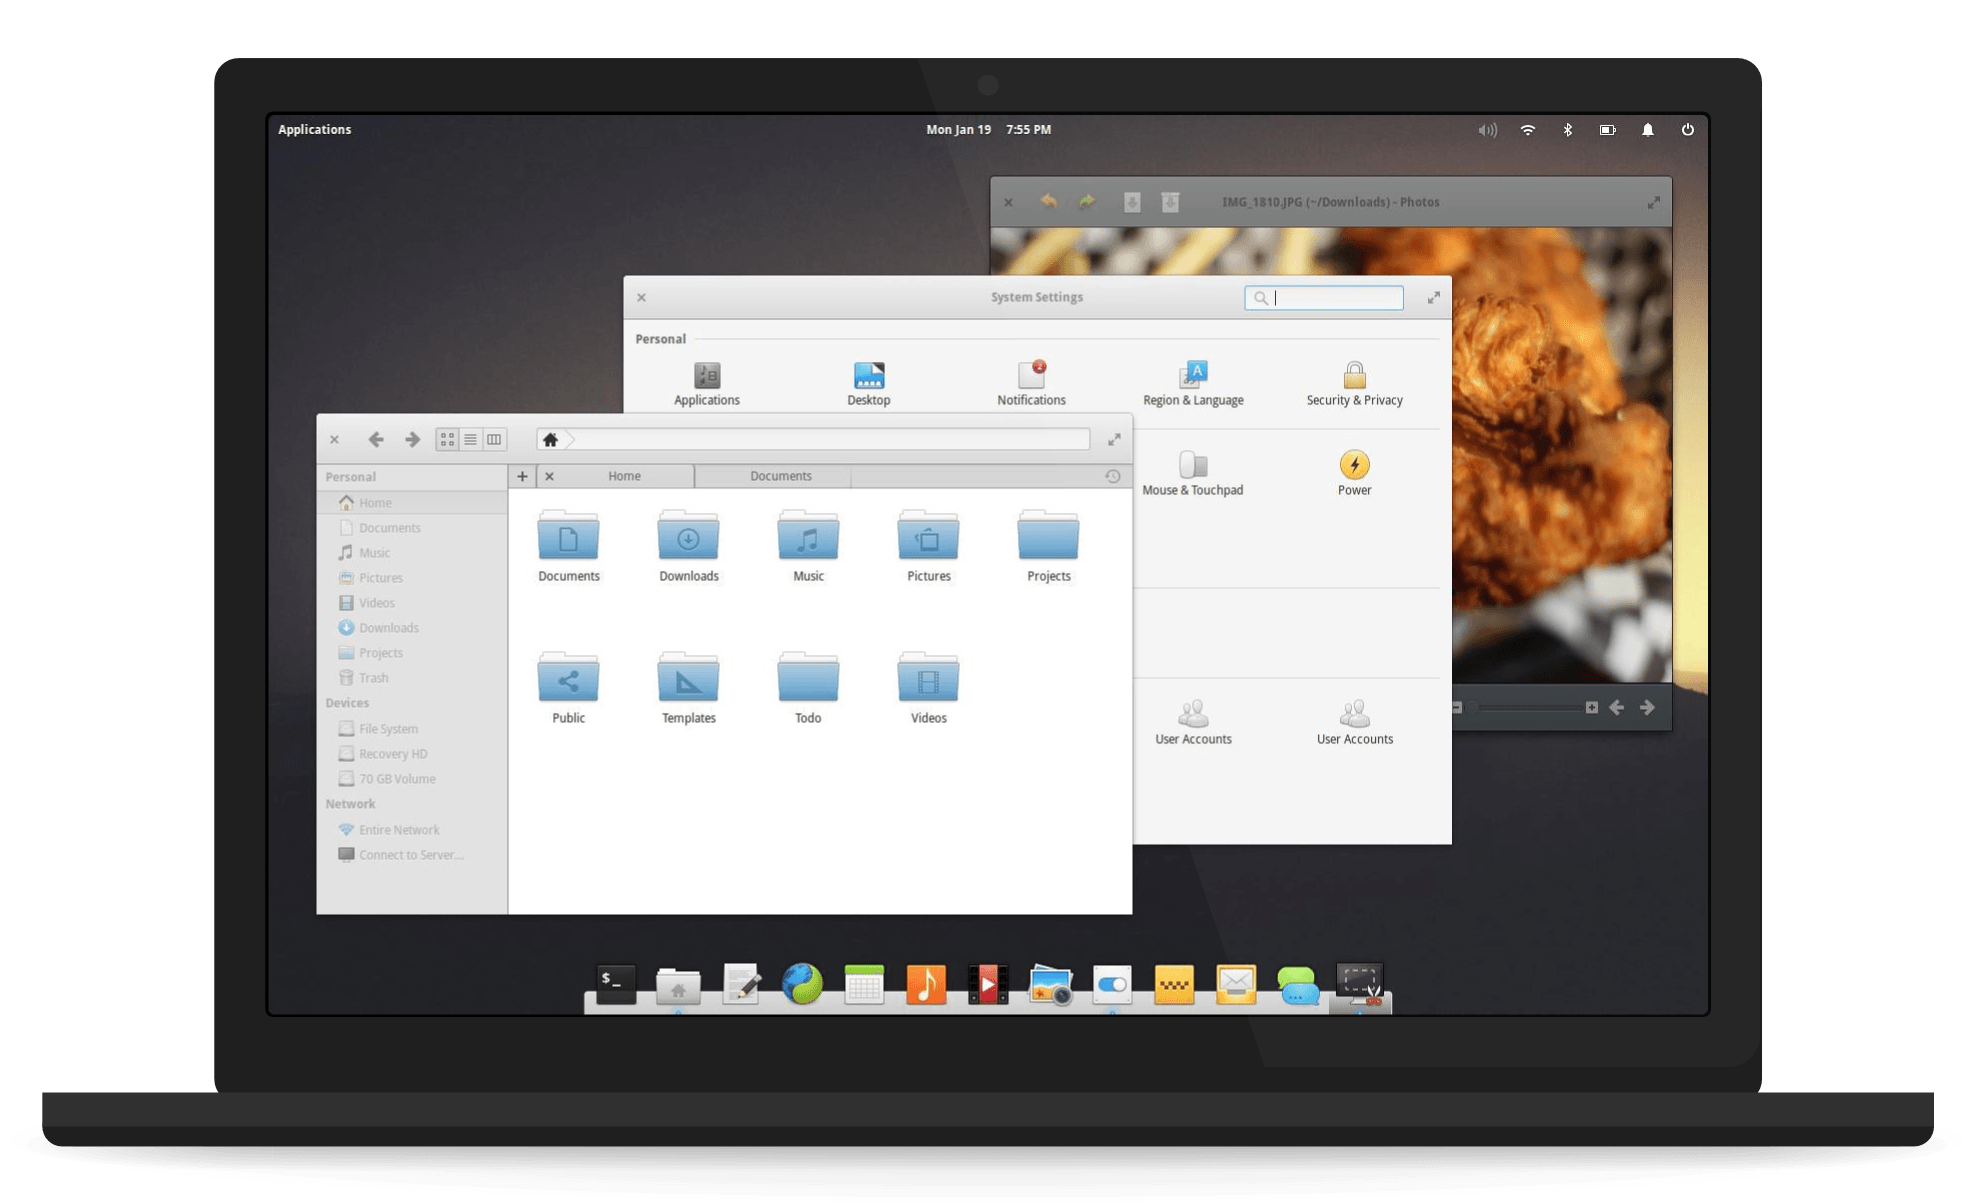
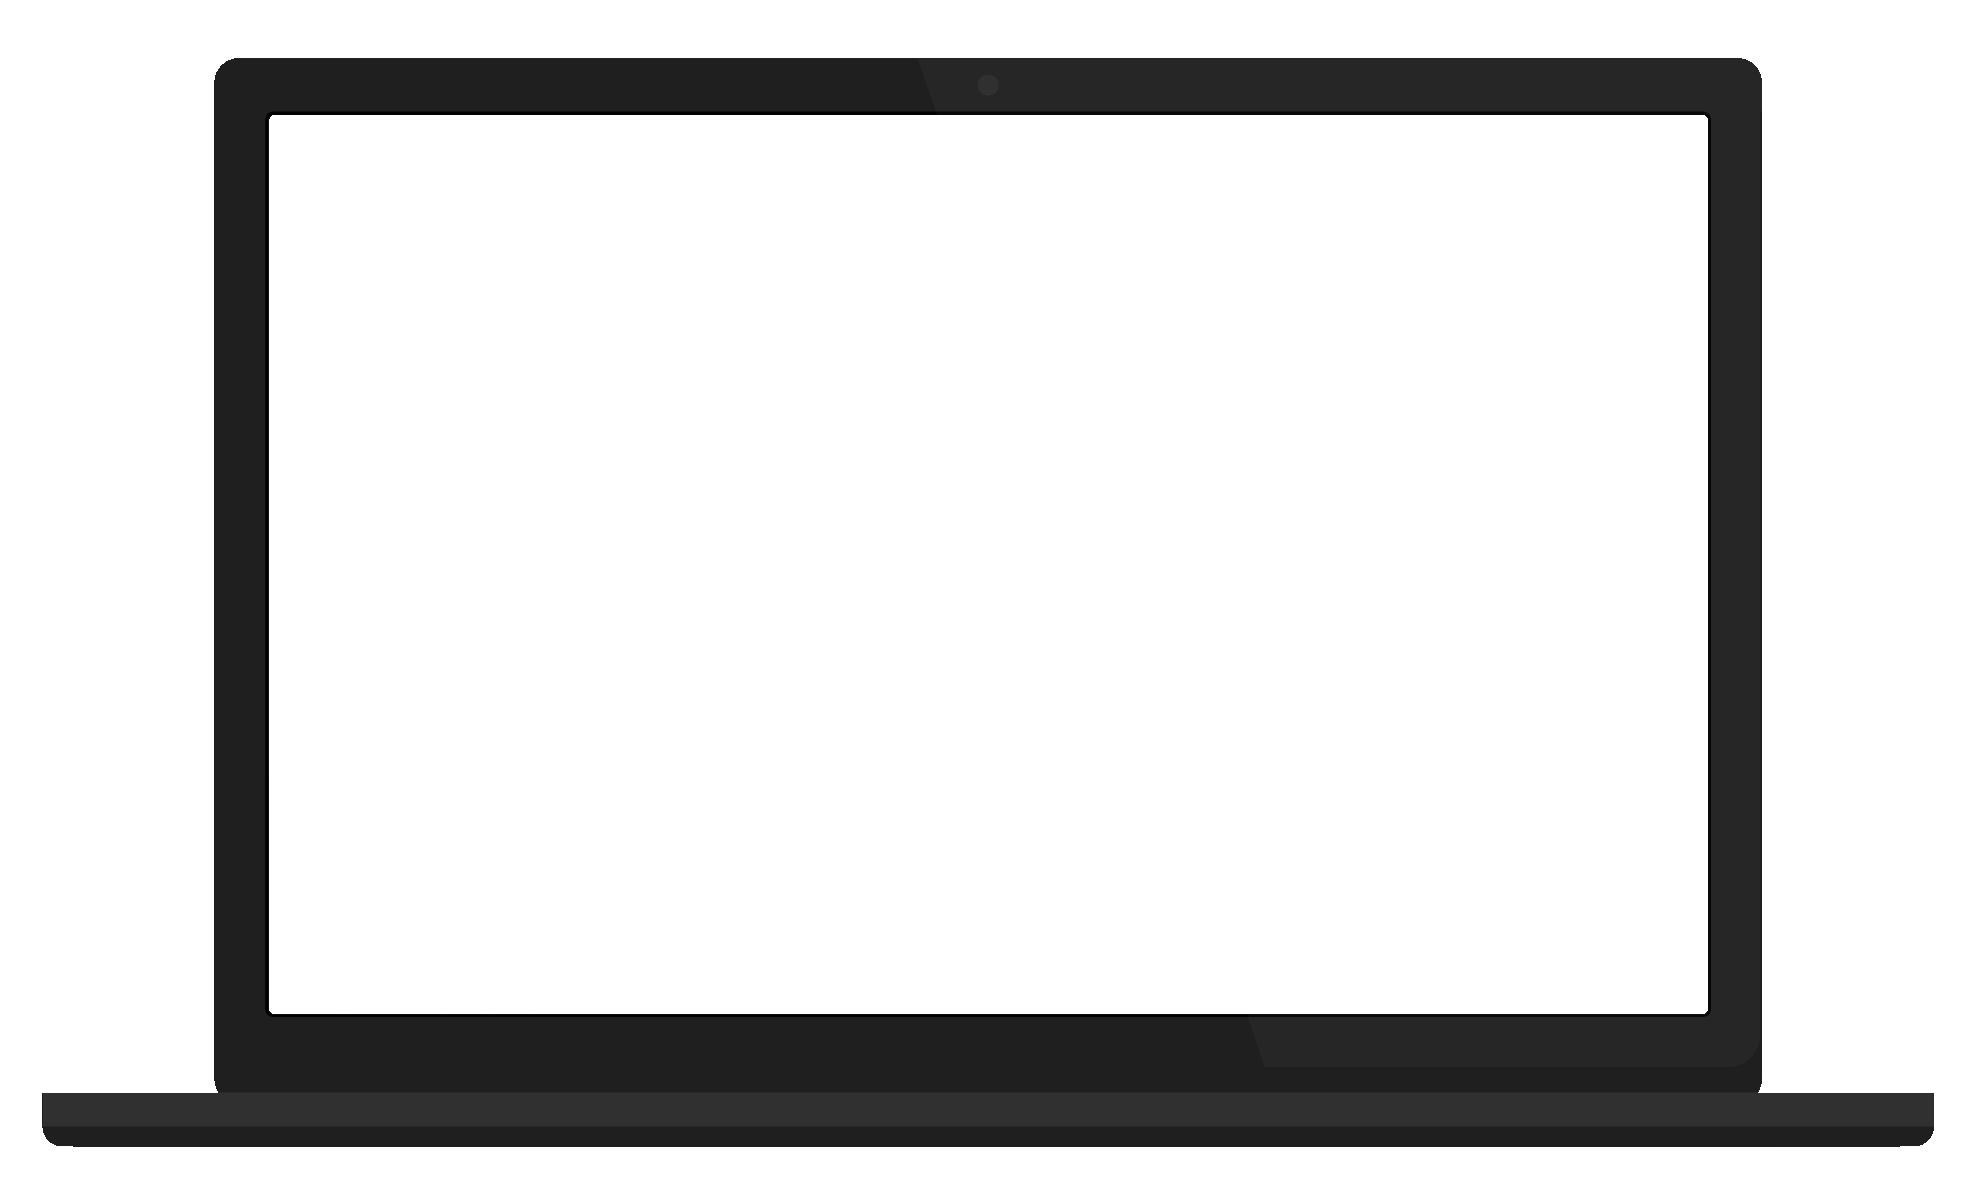
put a video on the notebook screen (https://github.com/elementary/mvp/issues/129)

diff --git a/styles/main.css b/styles/main.css
@@ -99,11 +99,37 @@ img.h1 {
     display: block;
 }
 
-img.hero {
+.hero {
     width: 55%;
     min-width: 288px;
     display: block;
     margin: 0 auto;
+    position: relative;
+}
+.hero .notebook {
+    z-index: 2;
+    position: relative;
+}
+.hero .screen {
+    z-index: 1;
+    position: absolute;
+
+    top: 9.5%;
+    left: 13.5%;
+    right: 13.4%;
+    bottom: 16.1%;
+
+    background: #000;
+}
+.hero .screen img,
+.hero .screen video {
+    position: absolute;
+    top: 0;
+    left: 0;
+    right: 0;
+    bottom: 0;
+    width: 100%;
+    height: 100%;
 }
 
 .inline-tweet {

diff --git a/index.php b/index.php
@@ -12,7 +12,15 @@
                 <img alt="elementary OS" id="logotype" src="images/logotype.svg">
                 <h2>A fast and open replacement for Windows and OS X</h2>
             </div>
-            <img class="hero" src="images/notebook.png">
+            <div class="hero">
+                <div class="screen">
+                    <img src="images/hero-poster.png" alt="">
+                    <video src="http://a.pomf.se/rmtawv.webm" poster="images/hero-poster.png" autoplay loop></video>
+                </div>
+                <div class="notebook">
+                    <img src="images/notebook.png" alt="">
+                </div>
+            </div>
             <div class="row">
                 <?php
                     if ( isset($_COOKIE['has_paid_freya']) && $_COOKIE['has_paid_freya'] ) {
